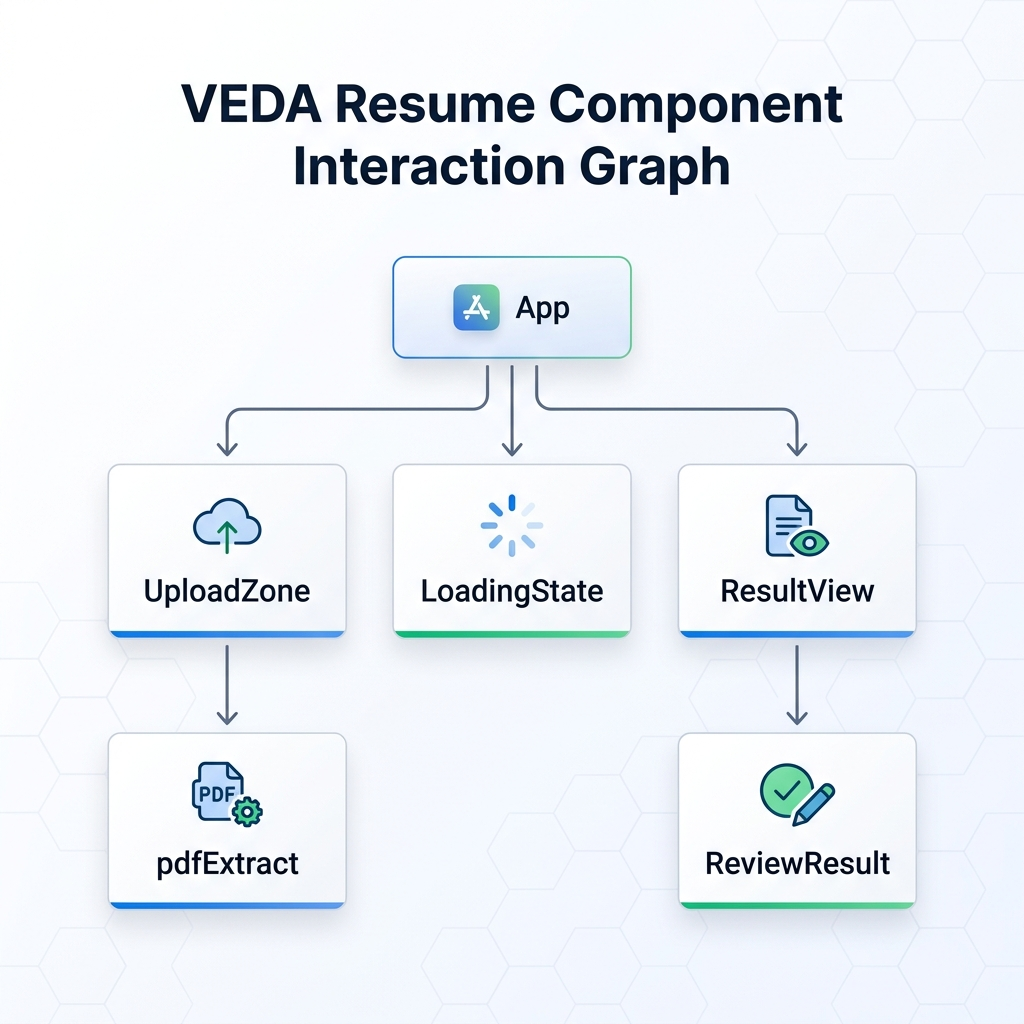
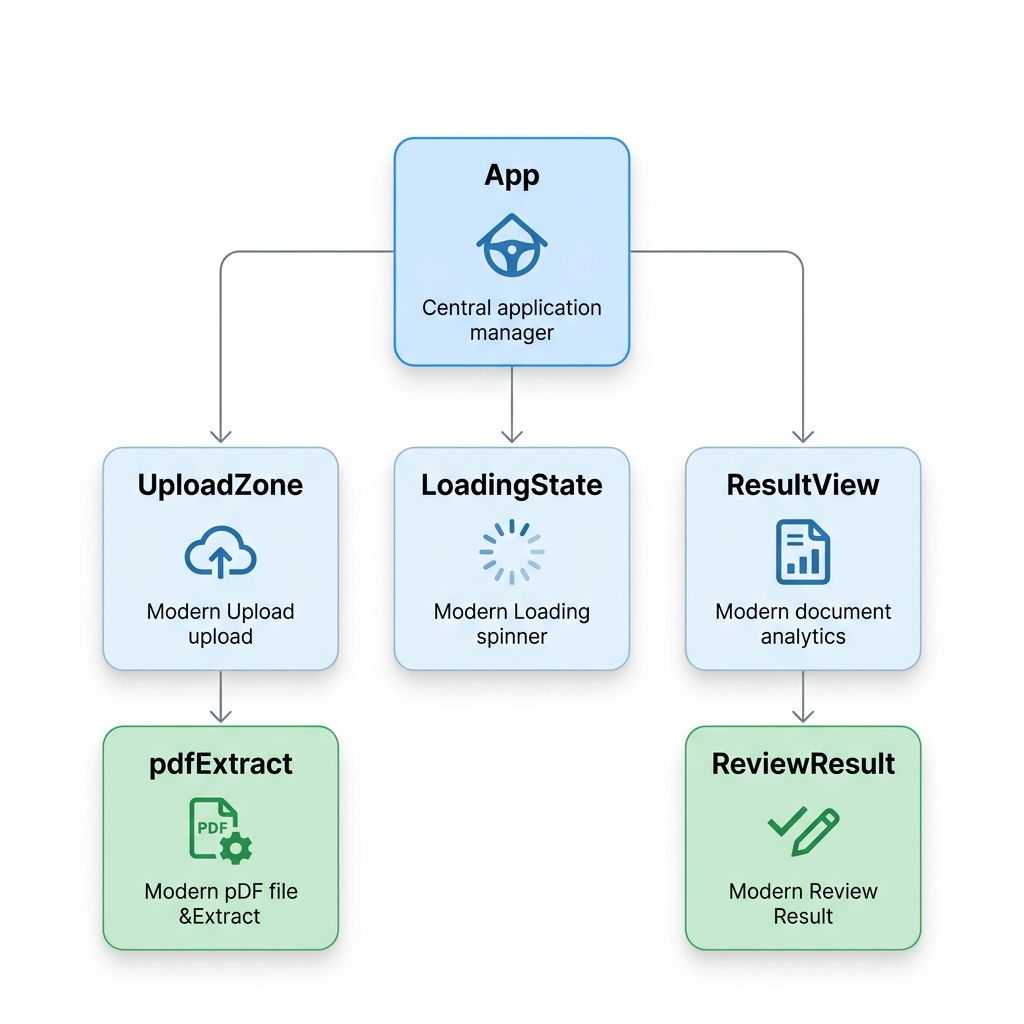
feat(i18n): v1.3.3 English Localized Dictionary Core
Highlights:
- Created the foundational `src/locales/en.json` dictionary to serve as the core language file for VEDA's internationalization architecture.
- Bound the English dictionary to the central `i18next` configuration within `src/lib/i18n.ts`.
- Updated application release trackers (`VersionsView.tsx`, `ChangelogView.tsx`, and `WhatsNewPopup.tsx`) to document v1.3.3.
- Synced the primary `README.md` Change Log table to perfectly reflect the v1.3.x patch history.
- The infrastructure is now fully prepared for Phase 1 UI text extraction.

Changed region(s): [[0.0938, 0.0625, 0.9062, 0.9375]]

diff --git a/src/components/WhatsNewPopup.tsx b/src/components/WhatsNewPopup.tsx
@@ -37,7 +37,7 @@ export function WhatsNewPopup({ isOpen, onClose, onNavigateToChangelog }: WhatsN
                     </div>
                     <div>
                       <h2 className="text-2xl font-black text-white tracking-tight">Updates</h2>
-                      <p className="text-emerald-500 dark:text-emerald-400 text-xs font-bold tracking-widest uppercase mt-0.5">v1.3.2 Release</p>
+                      <p className="text-emerald-500 dark:text-emerald-400 text-xs font-bold tracking-widest uppercase mt-0.5">v1.3.3 Release</p>
                     </div>
                   </div>
                   <button onClick={onClose} className="p-2 text-gray-500 hover:text-white transition-colors bg-white/5 hover:bg-white/10 rounded-full">
@@ -51,8 +51,8 @@ export function WhatsNewPopup({ isOpen, onClose, onNavigateToChangelog }: WhatsN
                       <Sparkles className="w-4 h-4 text-amber-500 dark:text-amber-400" />
                     </div>
                     <div>
-                      <h3 className="font-bold text-gray-900 dark:text-gray-200">i18n Engine Initialization</h3>
-                      <p className="text-sm text-gray-600 dark:text-gray-400 mt-1.5 leading-relaxed">Configured the core i18next translation engine and bound it to the React component tree.</p>
+                      <h3 className="font-bold text-gray-900 dark:text-gray-200">English Localized Dictionary</h3>
+                      <p className="text-sm text-gray-600 dark:text-gray-400 mt-1.5 leading-relaxed">Created the core en.json translation file, ready for the upcoming UI extraction phase.</p>
                     </div>
                   </div>
                   
@@ -61,8 +61,8 @@ export function WhatsNewPopup({ isOpen, onClose, onNavigateToChangelog }: WhatsN
                       <ShieldCheck className="w-4 h-4 text-blue-500 dark:text-blue-400" />
                     </div>
                     <div>
-                      <h3 className="font-bold text-gray-900 dark:text-gray-200">Cinematic App Boot-up</h3>
-                      <p className="text-sm text-gray-600 dark:text-gray-400 mt-1.5 leading-relaxed">Added an immersive 15-second skeleton boot sequence when you first visit VEDA.</p>
+                      <h3 className="font-bold text-gray-900 dark:text-gray-200">i18n Engine Initialization</h3>
+                      <p className="text-sm text-gray-600 dark:text-gray-400 mt-1.5 leading-relaxed">Configured the core i18next translation engine and bound it to the React component tree.</p>
                     </div>
                   </div>
 
@@ -71,8 +71,8 @@ export function WhatsNewPopup({ isOpen, onClose, onNavigateToChangelog }: WhatsN
                       <Zap className="w-4 h-4 text-purple-500 dark:text-purple-400" />
                     </div>
                     <div>
-                      <h3 className="font-bold text-gray-900 dark:text-gray-200">Synchronized Loading UI</h3>
-                      <p className="text-sm text-gray-600 dark:text-gray-400 mt-1.5 leading-relaxed">Overhauled the resume parser with a perfectly synchronized dynamic progress bar and underlying skeleton layout.</p>
+                      <h3 className="font-bold text-gray-900 dark:text-gray-200">Cinematic App Boot-up</h3>
+                      <p className="text-sm text-gray-600 dark:text-gray-400 mt-1.5 leading-relaxed">Added an immersive 15-second skeleton boot sequence when you first visit VEDA.</p>
                     </div>
                   </div>
                 </div>

diff --git a/src/components/ChangelogView.tsx b/src/components/ChangelogView.tsx
@@ -4,6 +4,16 @@ import { ChevronDown } from 'lucide-react';
 
 const releases = [
   {
+    version: 'v1.3.3',
+    date: 'July 04, 2026',
+    title: 'English Localized Dictionary Core',
+    description: 'We have established the core translation dictionary file for English, laying the foundation for all future regional Indian languages.',
+    changes: [
+      { type: 'feature', text: 'Created the initial en.json dictionary in src/locales/en.json.' },
+      { type: 'feature', text: 'Wired up the English dictionary to the central i18next configuration.' }
+    ]
+  },
+  {
     version: 'v1.3.2',
     date: 'July 04, 2026',
     title: 'i18n Engine Initialization',

diff --git a/src/lib/i18n.ts b/src/lib/i18n.ts
@@ -2,10 +2,12 @@ import i18n from 'i18next';
 import { initReactI18next } from 'react-i18next';
 import LanguageDetector from 'i18next-browser-languagedetector';
 
-// Empty namespaces for now, will be populated in upcoming tasks
+import enTranslation from '../locales/en.json';
+
+// Namespaces for translation
 const resources = {
   en: {
-    translation: {}
+    translation: enTranslation
   },
   hi: {
     translation: {}

diff --git a/src/components/VersionsView.tsx b/src/components/VersionsView.tsx
@@ -1,6 +1,7 @@
 import { motion } from 'framer-motion';
 
 const versions = [
+  { version: 'v1.3.3', date: 'July 04, 2026', title: 'English Localized Dictionary Core' },
   { version: 'v1.3.2', date: 'July 04, 2026', title: 'i18n Engine Initialization' },
   { version: 'v1.3.1', date: 'July 04, 2026', title: 'Cinematic App Boot & Loading Experience' },
   { version: 'v1.3.0', date: 'June 24, 2026', title: 'Localization Infrastructure (Phase 1)' },

diff --git a/README.md b/README.md
@@ -518,13 +518,13 @@ test("throws PDF_NO_TEXT for tiny PDFs", async () => {
 
 ## 📈 Roadmap & Future Enhancements
 
-| Milestone | Target Release | Description                                                       |
-| --------- | -------------- | ----------------------------------------------------------------- |
-| **v1.0**  | July 2026      | Initial release – core parsing, Gemini integration, cinematic UI. |
+| Milestone | Target Release | Description                                                         |
+| --------- | -------------- | ------------------------------------------------------------------- |
+| **v1.0**  | July 2026      | Initial release – core parsing, Gemini integration, cinematic UI.   |
 | **v2.0**  | July 2026      | Multi‑language support (English + Major Indian Regional Languages). |
-| **v3.0**  | July 2026      | Integrate Google Jobs API for auto‑suggested job postings.        |
-| **v4.0**  | Q4 2026        | Real‑time collaborative resume editing (WebSocket).               |
-| **v5.0**  | Q4 2026        | Export results as PDF/HTML report with branding.                  |
+| **v3.0**  | July 2026      | Integrate Google Jobs API for auto‑suggested job postings.          |
+| **v4.0**  | Q4 2026        | Real‑time collaborative resume editing (WebSocket).                 |
+| **v5.0**  | Q4 2026        | Export results as PDF/HTML report with branding.                    |
 
 ---
 
@@ -640,24 +640,27 @@ DEALINGS IN THE SOFTWARE.
 
 ## 🗂️ Change Log
 
-| Version    | Date       | Highlights                                                                      |
-| ---------- | ---------- | ------------------------------------------------------------------------------- |
-| **v1.0.0** | 2026-06-10 | Initial release – core parsing, Gemini 2.5 Flash integration, cinematic UI.     |
-| **v1.1.0** | 2026-06-20 | Added Target Role input, "Fix It For Me" clipboard copy, and What's New popup.  |
-| **v1.1.1** | 2026-06-21 | Codebase stability, strict TypeScript catches, and zero-warning builds.         |
-| **v1.1.2** | 2026-06-21 | SEO meta tags optimization, custom favicon, and "Powered by Gemini" branding.   |
-| **v1.2.0** | 2026-06-21 | Major UI overhaul: Floating Navbar, Updates Modal, and Dedicated Versions Page. |
-| **v1.2.1** | 2026-06-21 | Navbar TypeScript Fixes. |
-| **v1.2.2** | 2026-06-21 | Mobile Navigation & Feedback Integration. |
-| **v1.2.3** | 2026-06-23 | Cinematic Dark Mode & System Theme Integration. |
-| **v1.2.4** | 2026-06-23 | System Theme Toggle & UI Refinements. |
-| **v1.2.5** | 2026-06-23 | Two-Step Upload Confirmation Flow. |
-| **v1.2.6** | 2026-06-23 | Navbar Clean Up & Code Stability. |
-| **v1.2.7** | 2026-06-23 | Security Patch (CVE-2024-45296) & Light Mode Fixes. |
-| **v1.2.8** | 2026-06-23 | Expert ATS AI Rewrite Integration & Feedback/Security Dashboards. |
-| **v1.2.9** | 2026-06-23 | Real-Time Stats Dashboard & UI Enhancements. |
-| **v1.2.10** | 2026-06-23 | Security Patch & Deployment Hotfix. |
-| **v1.2.11** | 2026-07-04 | Cinematic App Boot & Loading Experience. |
+| Version     | Date       | Highlights                                                                      |
+| ----------- | ---------- | ------------------------------------------------------------------------------- |
+| **v1.0.0**  | 2026-06-10 | Initial release – core parsing, Gemini 2.5 Flash integration, cinematic UI.     |
+| **v1.1.0**  | 2026-06-20 | Added Target Role input, "Fix It For Me" clipboard copy, and What's New popup.  |
+| **v1.1.1**  | 2026-06-21 | Codebase stability, strict TypeScript catches, and zero-warning builds.         |
+| **v1.1.2**  | 2026-06-21 | SEO meta tags optimization, custom favicon, and "Powered by Gemini" branding.   |
+| **v1.2.0**  | 2026-06-21 | Major UI overhaul: Floating Navbar, Updates Modal, and Dedicated Versions Page. |
+| **v1.2.1**  | 2026-06-21 | Navbar TypeScript Fixes.                                                        |
+| **v1.2.2**  | 2026-06-21 | Mobile Navigation & Feedback Integration.                                       |
+| **v1.2.3**  | 2026-06-23 | Cinematic Dark Mode & System Theme Integration.                                 |
+| **v1.2.4**  | 2026-06-23 | System Theme Toggle & UI Refinements.                                           |
+| **v1.2.5**  | 2026-06-23 | Two-Step Upload Confirmation Flow.                                              |
+| **v1.2.6**  | 2026-06-23 | Navbar Clean Up & Code Stability.                                               |
+| **v1.2.7**  | 2026-06-23 | Security Patch (CVE-2024-45296) & Light Mode Fixes.                             |
+| **v1.2.8**  | 2026-06-23 | Expert ATS AI Rewrite Integration & Feedback/Security Dashboards.               |
+| **v1.2.9**  | 2026-06-23 | Real-Time Stats Dashboard & UI Enhancements.                                    |
+| **v1.2.10** | 2026-06-23 | Security Patch & Deployment Hotfix.                                             |
+| **v1.3.0**  | 2026-06-24 | Localization Infrastructure (Phase 1).                                          |
+| **v1.3.1**  | 2026-07-04 | Cinematic App Boot & Loading Experience.                                        |
+| **v1.3.2**  | 2026-07-04 | i18n Engine Initialization.                                                     |
+| **v1.3.3**  | 2026-07-04 | English Localized Dictionary Core.                                              |
 
 ---
 